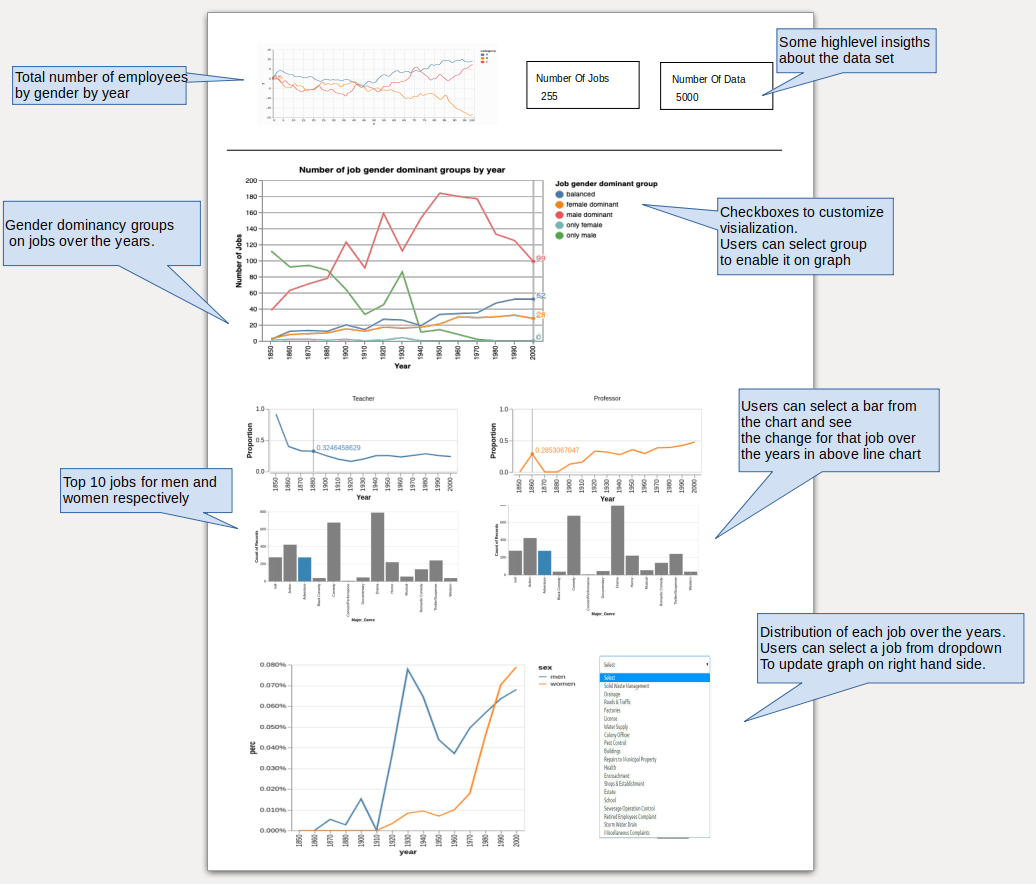
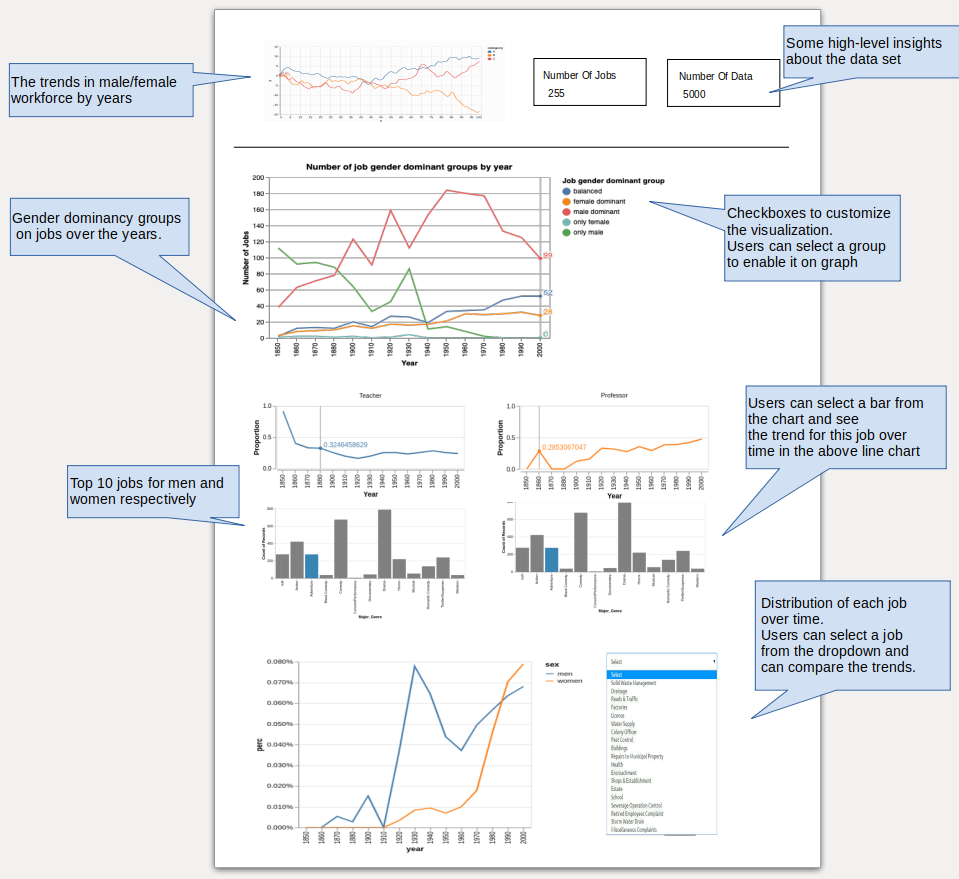
Updated sketch and read me file.

diff --git a/README.md b/README.md
@@ -1,12 +1,12 @@
 ## Job Analysis Application
 
-The `Job Analysis` app is a single-page app to provide insights about the dataset provided by [vega-datasets](https://github.com/vega/vega-datasets/blob/master/data/jobs.json). The dataset has information about 255 unique jobs and distribution of genders to those jobs over the years. The main (landing) page of the app shows general information about job market change over the year and some information about the dataset in general, like the total number of data and unique jobs for years.
+The `Job Analysis` app is a single-page app to provide insights about the [jobs dataset](https://github.com/vega/vega-datasets/blob/master/data/jobs.json) provided by [vega-datasets](https://github.com/vega/vega-datasets/blob/master/README.md). The dataset has information about 255 unique jobs and distribution of genders to those jobs over time. The first part of the main (landing) page shows general information about gender changes in the job market over time and some high-level information about the dataset, like the total number of observations and the number unique jobs.
 
-In the second part, users will be able to see the change of gender dominancy information over the years. Moreover, users can enable/disable these groups by clicking checkboxes next to the graph. This will allow users to easily compare/contrast different groups.
+In the second part, users  will be able to see the changes of gender dominancy over time. Moreover, users can enable/disable these groups by clicking checkboxes next to the graph. This will allow users to easily compare/contrast different groups.
 
-In the third part, the app will show the top 10 jobs for the men and the women in the bar chart. By clicking on a bar, users will be able to see historical changes for the selected job over the years. This will provide users to understand if current top jobs have been amongst the top or they have just emerged some point in time.
+In the third part, the app will show the top 10 male and female dominant jobs in the bar chart. By clicking on a bar, users will be able to see the changes in the proportion of female/male employees for the selected job over time. 
 
-In the last section, users will be able to select a specific job from the dropdown menu and the line chart next to the dropdown menu will be updated automatically. Different color codes for male employees and women employees will make it easier to compare employee existence over the years.
+In the last section, users will be able to select a specific job from the dropdown menu and the line chart next to the dropdown menu will be updated automatically. Color-codings for male and female employees will make it easier to compare employee existence over time.
 
 Sketch below shows how main page will look like.
 
